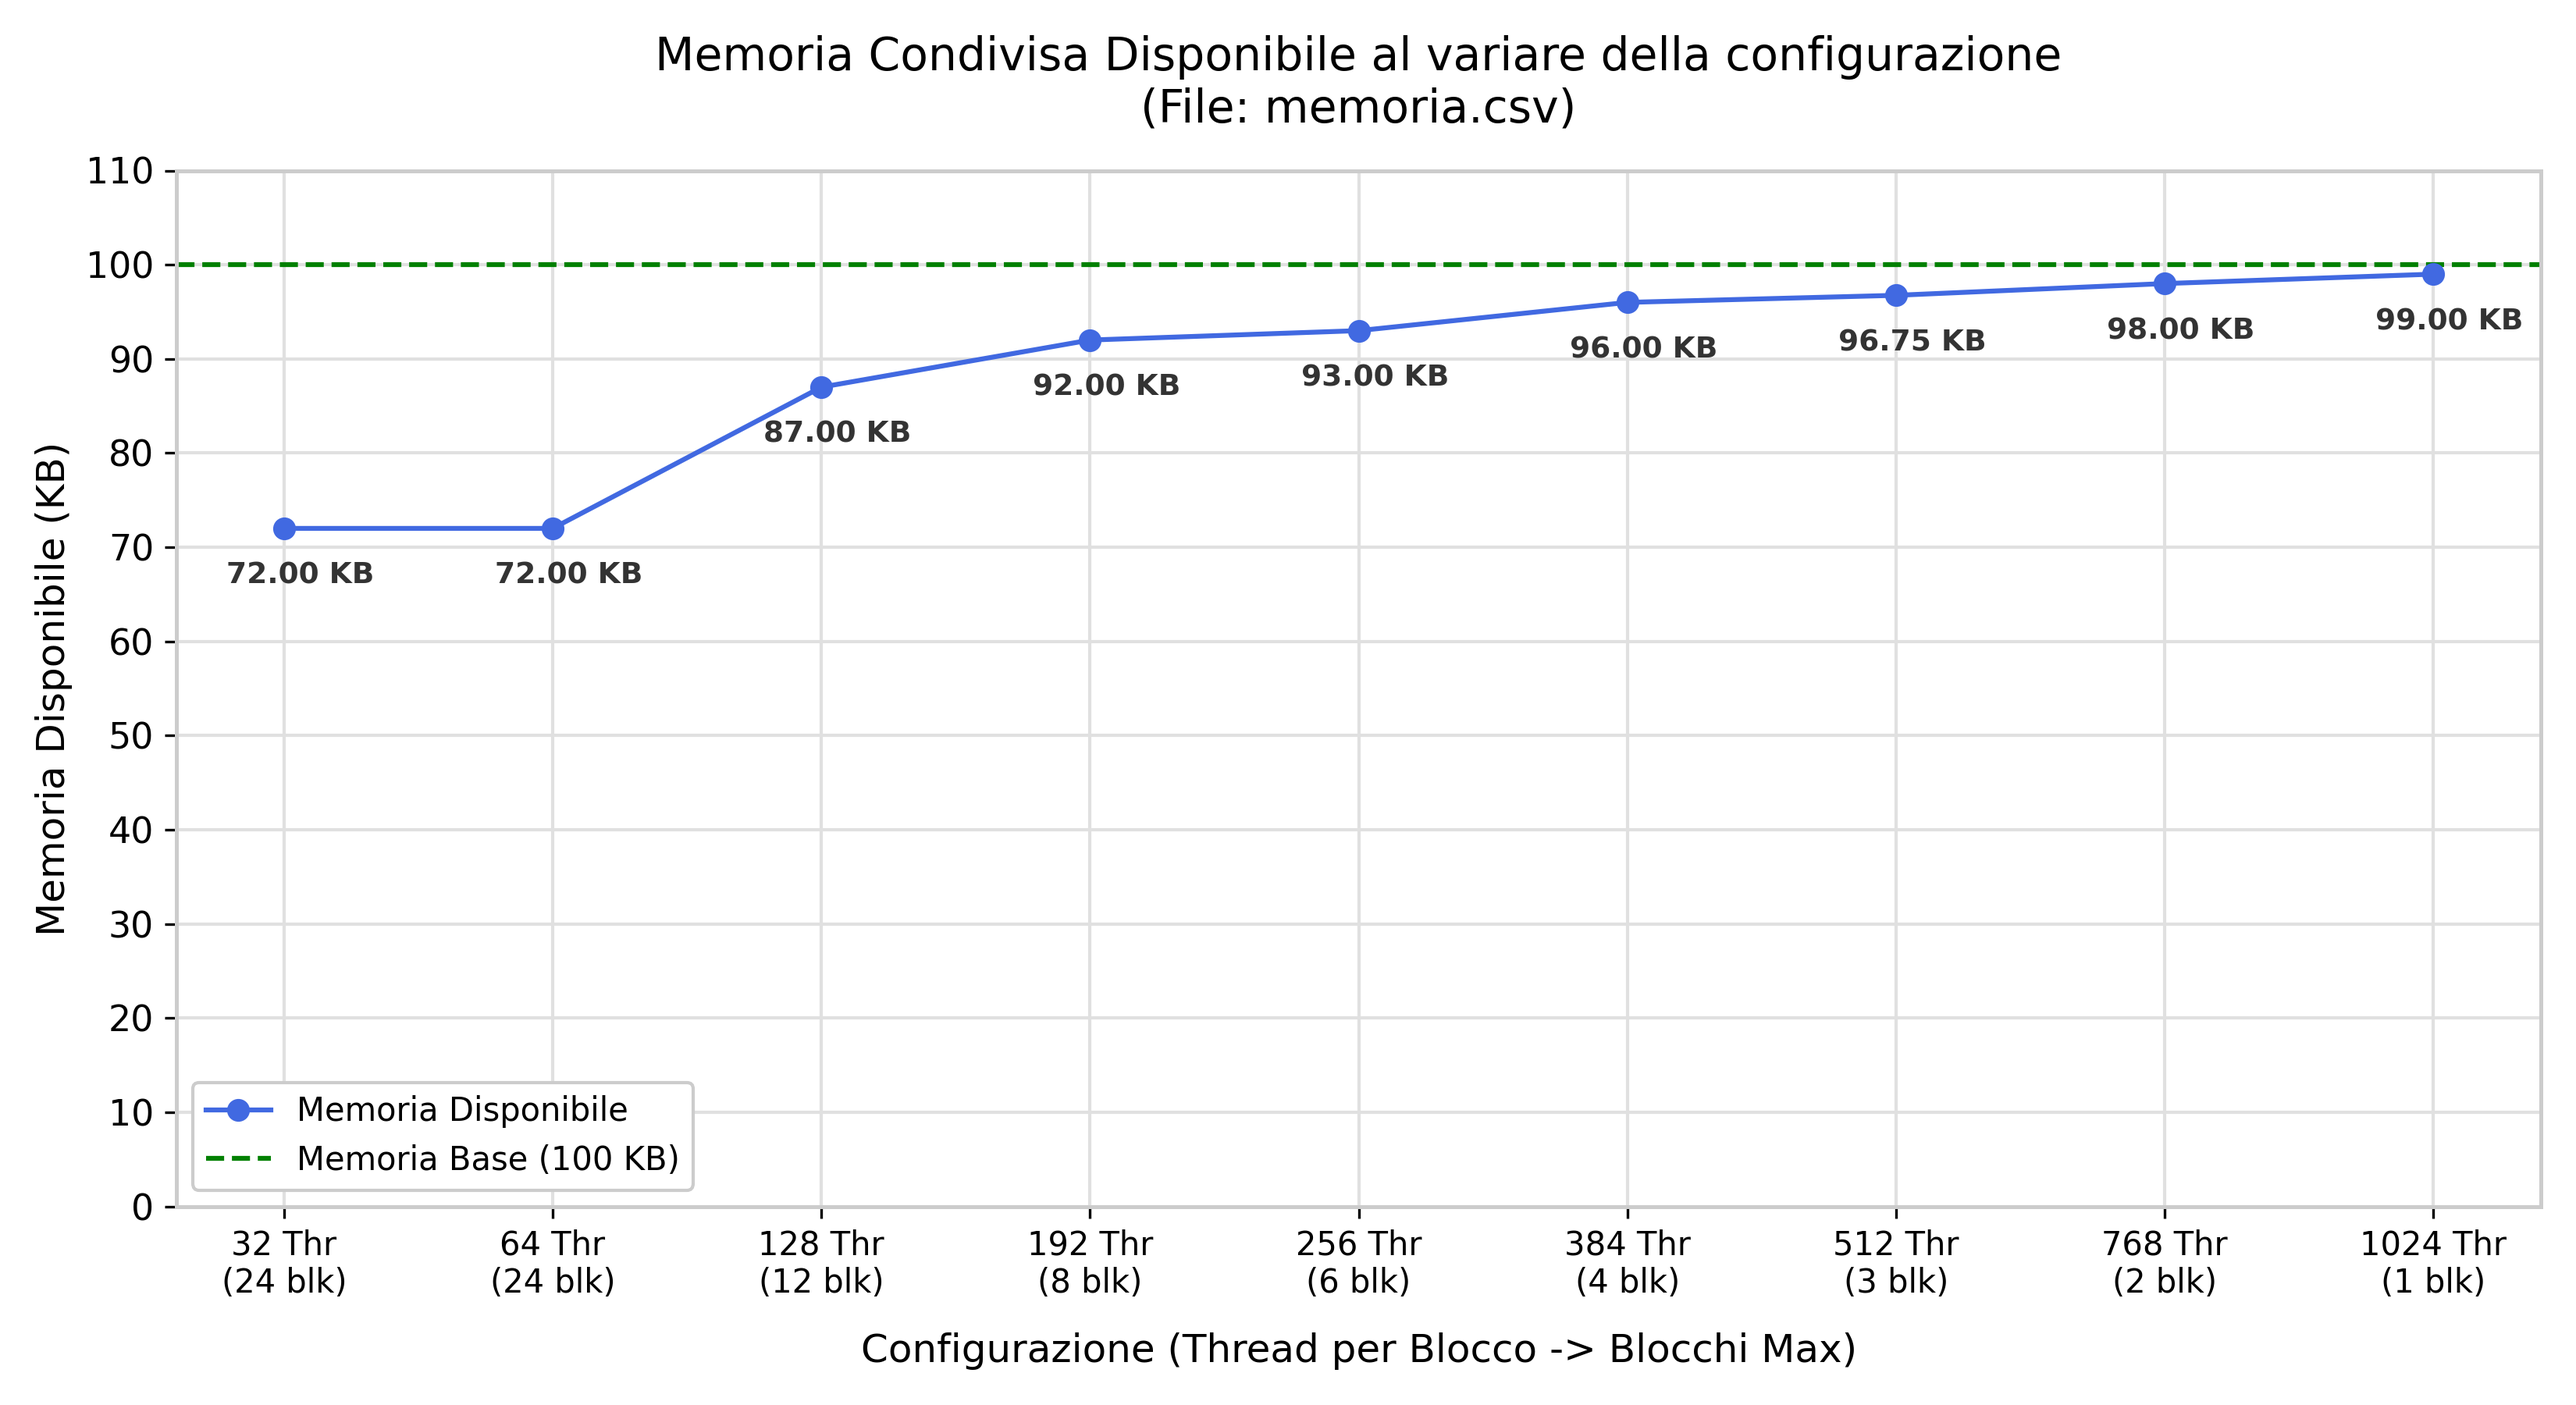
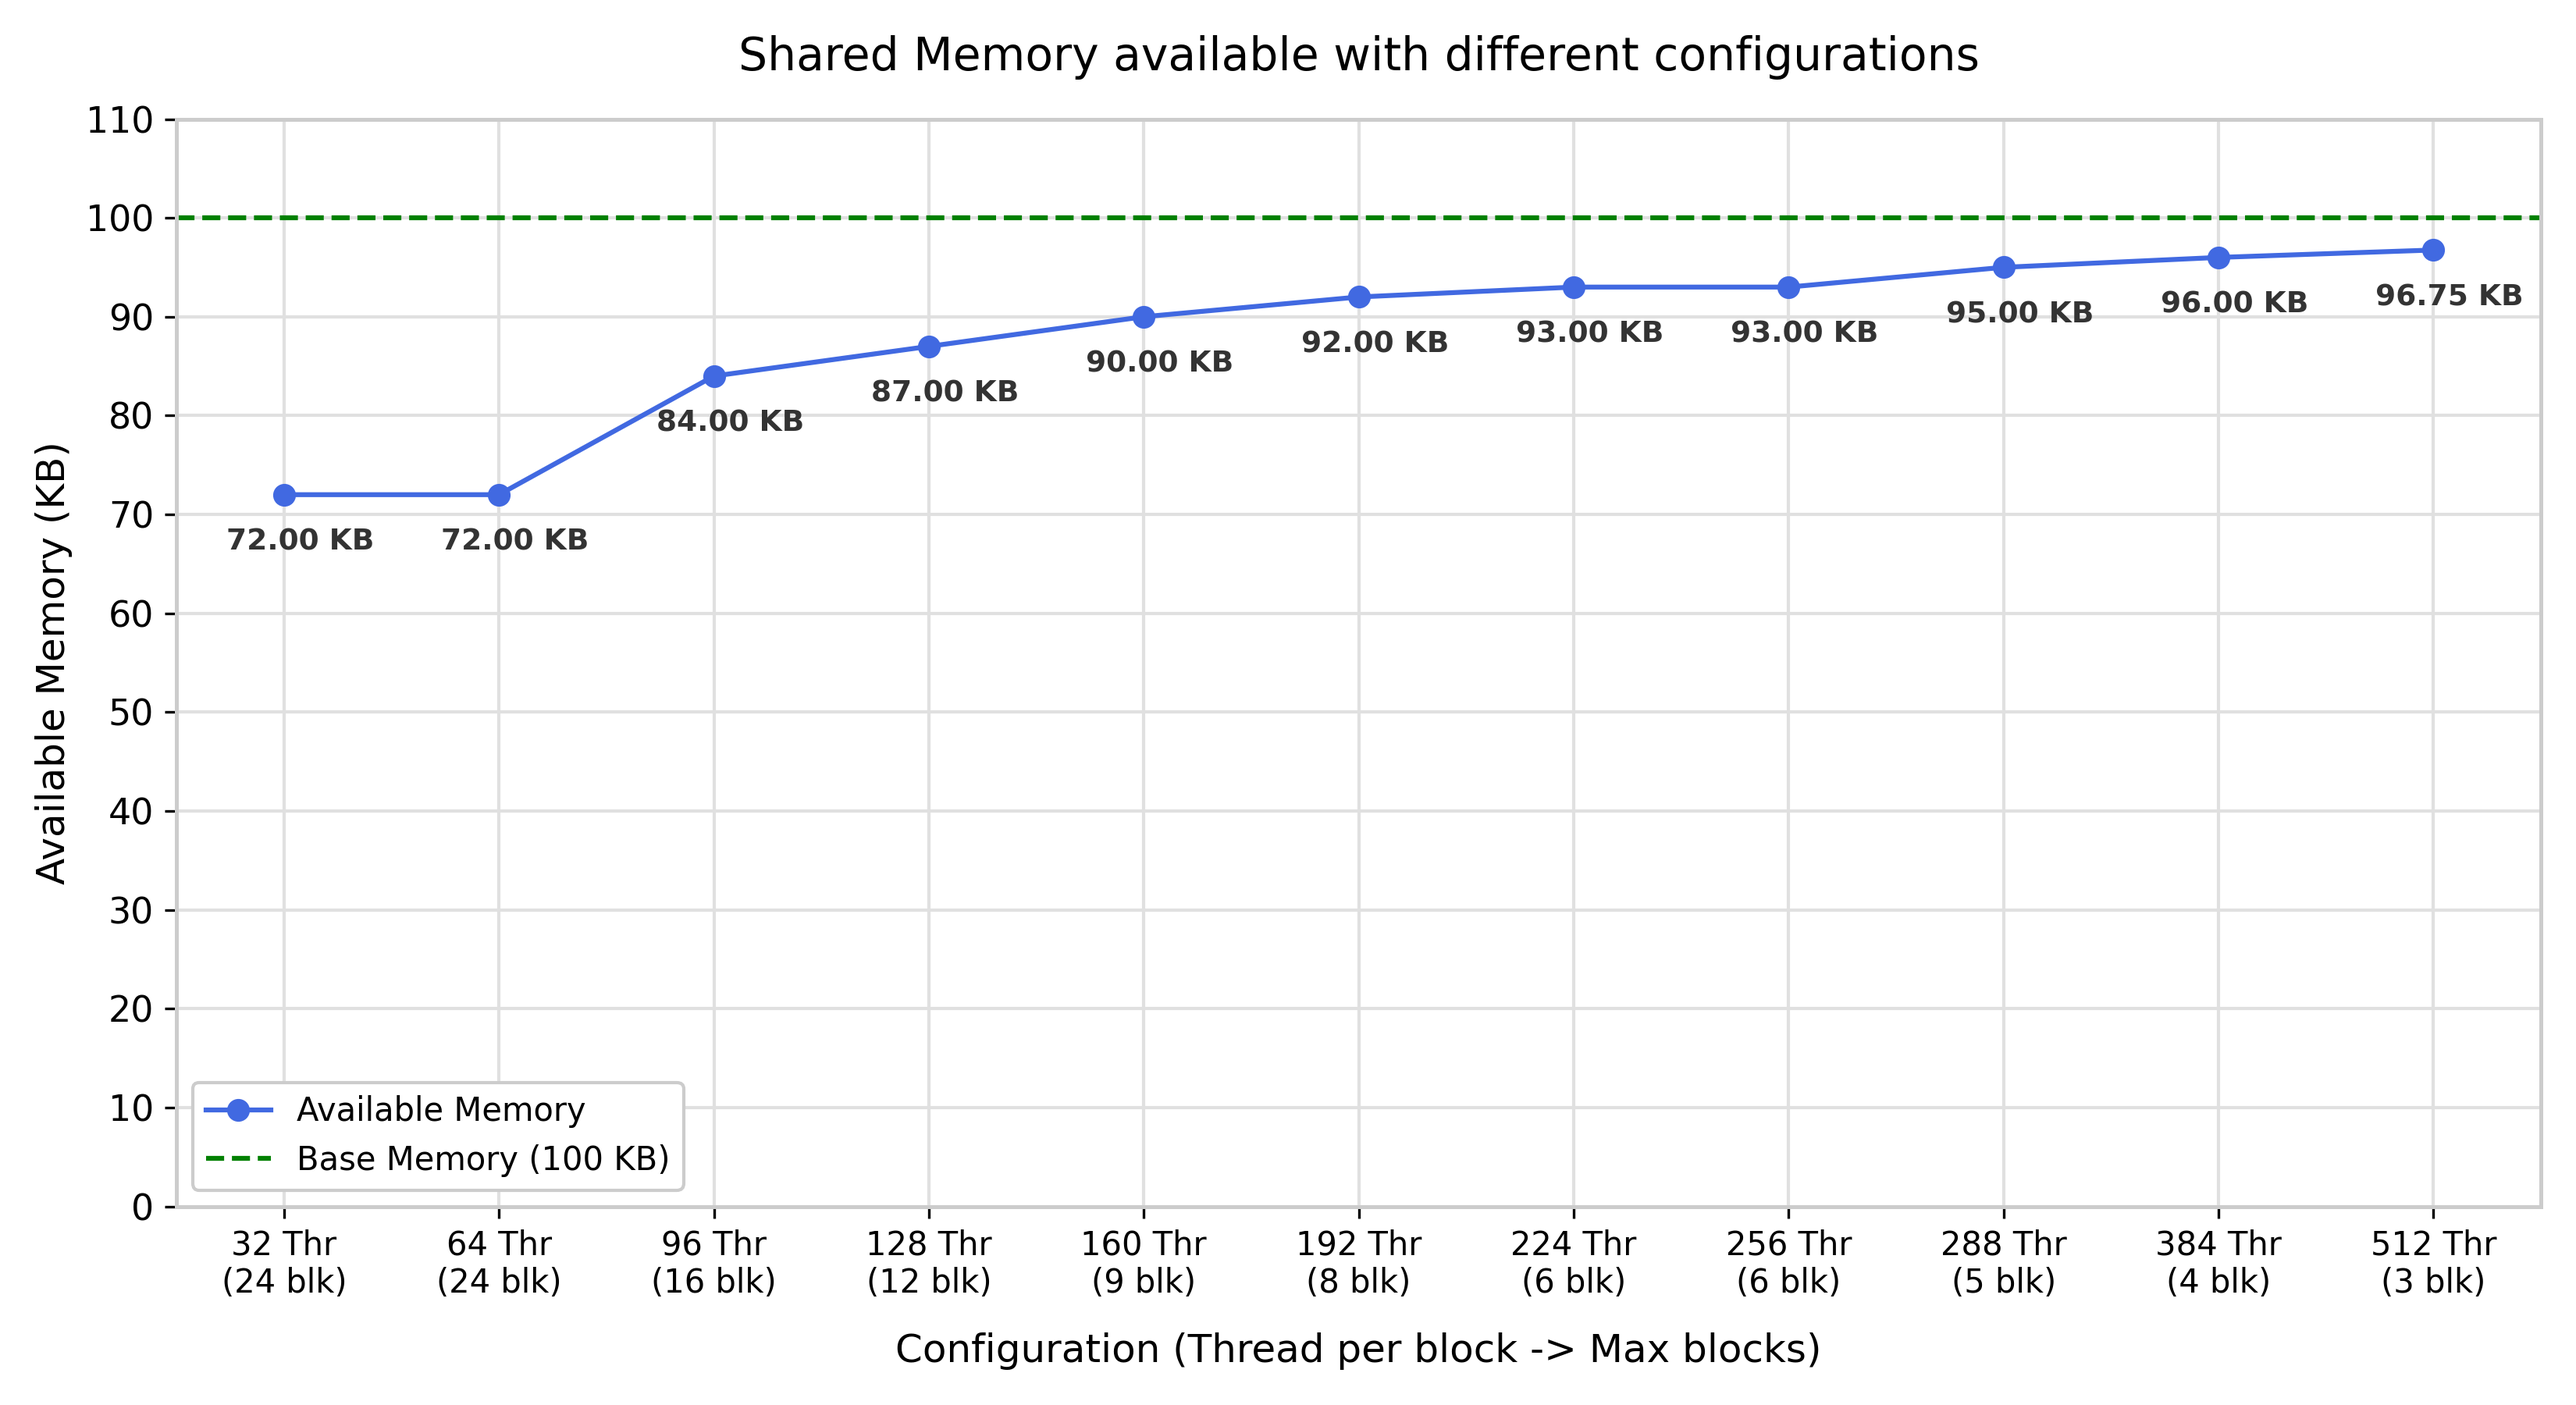
modifiche

diff --git a/StringComparison/Code/GPU/python/grafico_memoria_comparison.py b/StringComparison/Code/GPU/python/grafico_memoria_comparison.py
@@ -92,13 +92,13 @@ def main():
     fig2, ax2 = plt.subplots(figsize=(11, 6), dpi=300)
     
     ax2.plot(x_pos_memoria, df_memoria['Memoria_Disponibile_KB'], 
-             marker='o', markersize=6, color=line_color, linestyle='-', linewidth=1.5, zorder=3, label='Memoria Disponibile')
+             marker='o', markersize=6, color=line_color, linestyle='-', linewidth=1.5, zorder=3, label='Available Memory')
     
-    ax2.axhline(y=100, color='green', linestyle='--', linewidth=1.5, zorder=2, label='Memoria Base (100 KB)')
+    ax2.axhline(y=100, color='green', linestyle='--', linewidth=1.5, zorder=2, label='Base Memory (100 KB)')
     
-    ax2.set_title('Memoria Condivisa Disponibile al variare della configurazione\n(File: memoria.csv)', fontsize=14, pad=15)
-    ax2.set_xlabel('Configurazione (Thread per Blocco -> Blocchi Max)', fontsize=12, labelpad=10)
-    ax2.set_ylabel('Memoria Disponibile (KB)', fontsize=12)
+    ax2.set_title('Shared Memory available with different configurations', fontsize=14, pad=15)
+    ax2.set_xlabel('Configuration (Thread per block -> Max blocks)', fontsize=12, labelpad=10)
+    ax2.set_ylabel('Available Memory (KB)', fontsize=12)
     
     # Impostiamo il limite superiore dell'asse Y a 130
     ax2.set_ylim(bottom=0, top=110)

diff --git a/StringComparison/Code/GPU/shared.h b/StringComparison/Code/GPU/shared.h
@@ -2,7 +2,7 @@
 #define SHARED_H
 
 #define DEBUG 
-#define BENCHMARK
+//#define BENCHMARK
 #define MAX_OCCUPANCY
 
 
